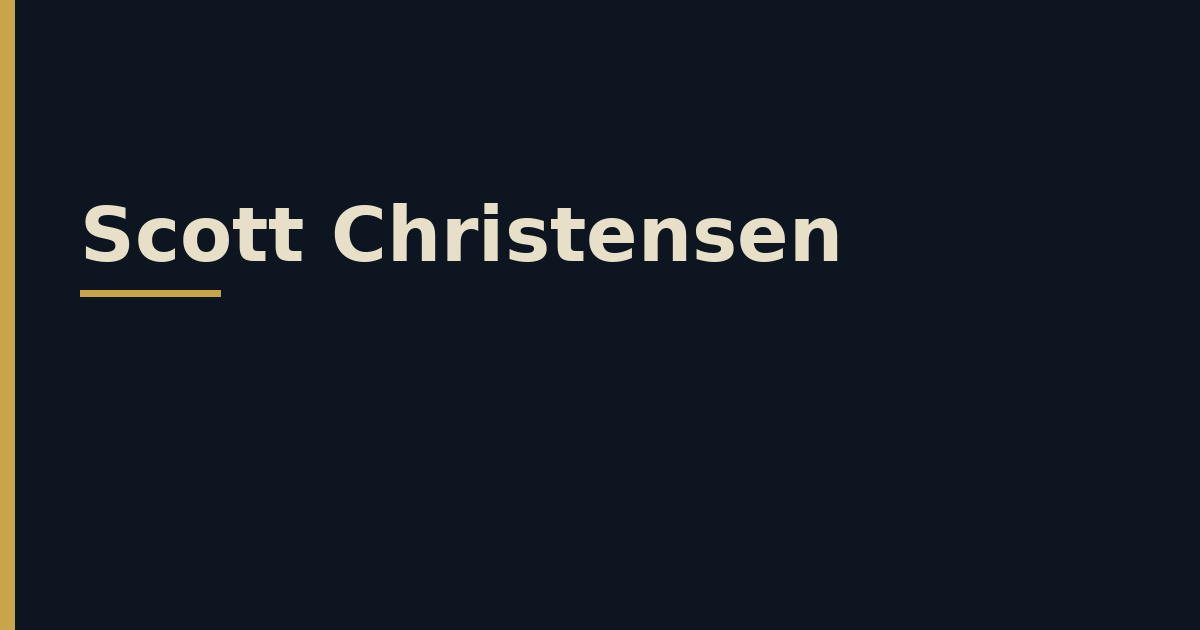
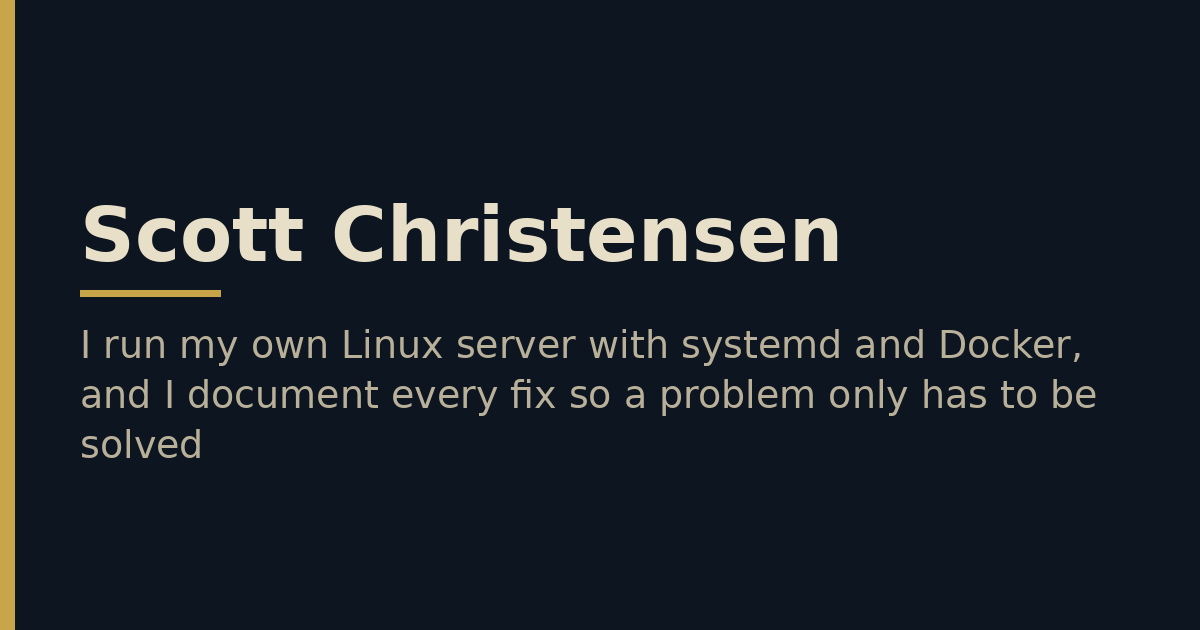
Settings changed: refresh links, previews and style
by: owner

Changed region(s): [[0.0617, 0.6032, 0.925, 0.6635], [0.0617, 0.5127, 0.8942, 0.573], [0.0617, 0.6937, 0.185, 0.7238]]

diff --git a/about.html b/about.html
@@ -13,20 +13,23 @@
 <meta property="og:type" content="website">
 <meta property="og:site_name" content="Scott Christensen — portfolio">
 <meta property="og:title" content="About / Résumé — Scott Christensen">
-<meta property="og:description" content="<span data-draft="d21">Scott Christensen runs a self-managed Linux Mint home server with Docker services, systemd and local AI models. He ran a study platform on a Linux server with systemd and automated test gates before every push, and kept a decisions log of each change and incident. He traced a live outage to a test build written into the production folder while the health check stayed green, restored service, and approved two guards against it. He has repaired and built computers since 2010 and is working toward CompTIA A+, planned for February 2027.</span> Scott Christensen — systems builder portfolio.">
-<meta property="og:image" content="assets/share.png">
+<meta property="og:description" content="&lt;span data-draft=">
+<meta property="og:image" content="https://scottchristensen.dev/assets/share.png">
 <meta property="og:image:width" content="1200">
 <meta property="og:image:height" content="630">
 <meta property="og:image:alt" content="Scott Christensen — portfolio — portfolio">
+<meta property="og:url" content="https://scottchristensen.dev/about.html">
+<link rel="canonical" href="https://scottchristensen.dev/about.html">
 <meta name="twitter:card" content="summary_large_image">
 <meta name="twitter:title" content="About / Résumé — Scott Christensen">
-<meta name="twitter:description" content="<span data-draft="d22">Scott Christensen builds and runs software on a self-managed Linux server, using systemd, Docker, git and automated test gates before every push. He has fixed computers since 2010, starting in a three-person repair shop in Fortuna, CA, and he writes down each fix so it only has to be solved once. On one project he traced a live outage to a test build written into the production folder while the health check stayed green, restored service, and approved two guards against it happening again. He is studying for the CompTIA A+ exam, planned for February 2027.</span> Scott Christensen — systems builder portfolio.">
-<meta name="twitter:image" content="assets/share.png">
+<meta name="twitter:description" content="&lt;span data-draft=">
+<meta name="twitter:image" content="https://scottchristensen.dev/assets/share.png">
 <!-- /hx:head -->
 </head>
 <body>
 <a class="skip" href="#main">Skip to content</a>
 <header class="nav"><nav aria-label="Main"><a href="index.html">Home</a><a href="projects.html">Projects</a><a href="about.html" aria-current="page">About / Résumé</a><a href="contact.html">Contact</a></nav>
+<!-- hx:hsocial --><span class="social" aria-label="Profiles"><a href="https://github.com/erasmus707bot-dev" rel="me noopener">GitHub</a></span><!-- /hx:hsocial -->
 <button type="button" class="theme" data-theme-toggle aria-label="Switch light or dark">🌓</button></header>
 <main id="main">
 <h1>About / Résumé</h1>
@@ -58,6 +61,7 @@
 <p><a class="btn" href="assets/resume.pdf" download>Download résumé (PDF)</a></p></section>
 <!-- /block -->
 </main>
-<footer><p>© Scott Christensen · <a href="mailto:scott@scottchristensen.dev">scott@scottchristensen.dev</a></p></footer>
+<footer><p>© Scott Christensen · <a href="mailto:scott@scottchristensen.dev">scott@scottchristensen.dev</a></p><!-- hx:fsocial --><p><span class="social" aria-label="Profiles"><a href="https://github.com/erasmus707bot-dev" rel="me noopener">GitHub</a></span></p><!-- /hx:fsocial -->
+</footer>
 </body>
 </html>

diff --git a/projects.html b/projects.html
@@ -13,20 +13,23 @@
 <meta property="og:type" content="website">
 <meta property="og:site_name" content="Scott Christensen — portfolio">
 <meta property="og:title" content="Projects — Scott Christensen">
-<meta property="og:description" content="<span data-draft="d37">Scott Christensen&#x27;s projects run on a self-managed Linux Mint server using systemd, Docker and git, including a home server and a self-hosted platform of AI-assisted tools. One write-up covers a live outage traced to a test build in the production folder, closed out with a separate test-build folder and a health check that verifies the build.</span> Scott Christensen — systems builder portfolio.">
-<meta property="og:image" content="assets/share.png">
+<meta property="og:description" content="&lt;span data-draft=">
+<meta property="og:image" content="https://scottchristensen.dev/assets/share.png">
 <meta property="og:image:width" content="1200">
 <meta property="og:image:height" content="630">
 <meta property="og:image:alt" content="Scott Christensen — portfolio — portfolio">
+<meta property="og:url" content="https://scottchristensen.dev/projects.html">
+<link rel="canonical" href="https://scottchristensen.dev/projects.html">
 <meta name="twitter:card" content="summary_large_image">
 <meta name="twitter:title" content="Projects — Scott Christensen">
-<meta name="twitter:description" content="<span data-draft="d38">I run my own Linux Mint home server home server with Docker services, systemd, local AI models and document archiving. I also ran a study platform on a self-managed Linux server with systemd and automated test gates before every push, and I kept a decisions log of each change and incident. On one live outage, I traced the cause to a test build written into the production folder while the health check stayed green, restored service, and approved two guards against it. I started repairing and building computers in 2010, and I&#x27;m studying for CompTIA A+, with the exam planned for February 2027.</span> Scott Christensen — systems builder portfolio.">
-<meta name="twitter:image" content="assets/share.png">
+<meta name="twitter:description" content="&lt;span data-draft=">
+<meta name="twitter:image" content="https://scottchristensen.dev/assets/share.png">
 <!-- /hx:head -->
 </head>
 <body>
 <a class="skip" href="#main">Skip to content</a>
 <header class="nav"><nav aria-label="Main"><a href="index.html">Home</a><a href="projects.html" aria-current="page">Projects</a><a href="about.html">About / Résumé</a><a href="contact.html">Contact</a></nav>
+<!-- hx:hsocial --><span class="social" aria-label="Profiles"><a href="https://github.com/erasmus707bot-dev" rel="me noopener">GitHub</a></span><!-- /hx:hsocial -->
 <button type="button" class="theme" data-theme-toggle aria-label="Switch light or dark">🌓</button></header>
 <main id="main">
 <h1>Projects</h1>
@@ -56,6 +59,7 @@
 </div></section>
 <!-- /block -->
 </main>
-<footer><p>© Scott Christensen · <a href="mailto:scott@scottchristensen.dev">scott@scottchristensen.dev</a></p></footer>
+<footer><p>© Scott Christensen · <a href="mailto:scott@scottchristensen.dev">scott@scottchristensen.dev</a></p><!-- hx:fsocial --><p><span class="social" aria-label="Profiles"><a href="https://github.com/erasmus707bot-dev" rel="me noopener">GitHub</a></span></p><!-- /hx:fsocial -->
+</footer>
 </body>
 </html>

diff --git a/contact.html b/contact.html
@@ -13,20 +13,23 @@
 <meta property="og:type" content="website">
 <meta property="og:site_name" content="Scott Christensen — portfolio">
 <meta property="og:title" content="Contact — Scott Christensen">
-<meta property="og:description" content="<span data-draft="d34">Scott Christensen is a systems builder who runs his own apps on a self-managed Linux server using systemd, Docker and git. He has fixed computers since 2010 and is working toward the CompTIA A+ exam planned for February 2027. He documents every fix with written change logs and incident notes.</span> Scott Christensen — systems builder portfolio.">
-<meta property="og:image" content="assets/share.png">
+<meta property="og:description" content="&lt;span data-draft=">
+<meta property="og:image" content="https://scottchristensen.dev/assets/share.png">
 <meta property="og:image:width" content="1200">
 <meta property="og:image:height" content="630">
 <meta property="og:image:alt" content="Scott Christensen — portfolio — portfolio">
+<meta property="og:url" content="https://scottchristensen.dev/contact.html">
+<link rel="canonical" href="https://scottchristensen.dev/contact.html">
 <meta name="twitter:card" content="summary_large_image">
 <meta name="twitter:title" content="Contact — Scott Christensen">
-<meta name="twitter:description" content="<span data-draft="d35">Scott Christensen is an IT support technician who runs his own apps on a self-managed Linux Mint server using systemd and Docker. He has done hands-on computer repair since 2010 and plans to take the CompTIA A+ exam in February 2027. To talk about a junior Linux admin role, email schristensen456@gmail.com.</span> Scott Christensen — systems builder portfolio.">
-<meta name="twitter:image" content="assets/share.png">
+<meta name="twitter:description" content="&lt;span data-draft=">
+<meta name="twitter:image" content="https://scottchristensen.dev/assets/share.png">
 <!-- /hx:head -->
 </head>
 <body>
 <a class="skip" href="#main">Skip to content</a>
 <header class="nav"><nav aria-label="Main"><a href="index.html">Home</a><a href="projects.html">Projects</a><a href="about.html">About / Résumé</a><a href="contact.html" aria-current="page">Contact</a></nav>
+<!-- hx:hsocial --><span class="social" aria-label="Profiles"><a href="https://github.com/erasmus707bot-dev" rel="me noopener">GitHub</a></span><!-- /hx:hsocial -->
 <button type="button" class="theme" data-theme-toggle aria-label="Switch light or dark">🌓</button></header>
 <main id="main">
 <h1>Contact</h1>
@@ -36,6 +39,7 @@
 <p><a class="btn" href="mailto:scott@scottchristensen.dev">scott@scottchristensen.dev</a></p></section>
 <!-- /block -->
 </main>
-<footer><p>© Scott Christensen · <a href="mailto:scott@scottchristensen.dev">scott@scottchristensen.dev</a></p></footer>
+<footer><p>© Scott Christensen · <a href="mailto:scott@scottchristensen.dev">scott@scottchristensen.dev</a></p><!-- hx:fsocial --><p><span class="social" aria-label="Profiles"><a href="https://github.com/erasmus707bot-dev" rel="me noopener">GitHub</a></span></p><!-- /hx:fsocial -->
+</footer>
 </body>
 </html>

diff --git a/index.html b/index.html
@@ -13,20 +13,23 @@
 <meta property="og:type" content="website">
 <meta property="og:site_name" content="Scott Christensen — portfolio">
 <meta property="og:title" content="Home — Scott Christensen">
-<meta property="og:description" content="<span data-draft="d2">Scott Christensen is an IT support technician with hands-on computer repair experience since 2010 and a self-managed Linux server running systemd and Docker services. His portfolio shows systems he builds, tests and documents, with a CompTIA A+ exam planned for February 2027.</span> Scott Christensen — systems builder portfolio.">
-<meta property="og:image" content="assets/share.png">
+<meta property="og:description" content="&lt;span data-draft=">
+<meta property="og:image" content="https://scottchristensen.dev/assets/share.png">
 <meta property="og:image:width" content="1200">
 <meta property="og:image:height" content="630">
 <meta property="og:image:alt" content="Scott Christensen — portfolio — portfolio">
+<meta property="og:url" content="https://scottchristensen.dev/">
+<link rel="canonical" href="https://scottchristensen.dev/">
 <meta name="twitter:card" content="summary_large_image">
 <meta name="twitter:title" content="Home — Scott Christensen">
-<meta name="twitter:description" content="<span data-draft="d3">Scott Christensen is an IT support technician who has run software on a self-managed Linux server, using systemd, Docker and git. He ran his study platform with automated test gates before every push and a decisions log that recorded each change and incident. He has done computer repair since 2010, and his CompTIA A+ exam is planned for February 2027.</span> Scott Christensen — systems builder portfolio.">
-<meta name="twitter:image" content="assets/share.png">
+<meta name="twitter:description" content="&lt;span data-draft=">
+<meta name="twitter:image" content="https://scottchristensen.dev/assets/share.png">
 <!-- /hx:head -->
 </head>
 <body>
 <a class="skip" href="#main">Skip to content</a>
 <header class="nav"><nav aria-label="Main"><a href="index.html" aria-current="page">Home</a><a href="projects.html">Projects</a><a href="about.html">About / Résumé</a><a href="contact.html">Contact</a></nav>
+<!-- hx:hsocial --><span class="social" aria-label="Profiles"><a href="https://github.com/erasmus707bot-dev" rel="me noopener">GitHub</a></span><!-- /hx:hsocial -->
 <button type="button" class="theme" data-theme-toggle aria-label="Switch light or dark">🌓</button></header>
 <main id="main">
 <!-- block:hero -->
@@ -67,6 +70,7 @@
 <p><a class="btn" href="mailto:scott@scottchristensen.dev">scott@scottchristensen.dev</a></p></section>
 <!-- /block -->
 </main>
-<footer><p>© Scott Christensen · <a href="mailto:scott@scottchristensen.dev">scott@scottchristensen.dev</a></p></footer>
+<footer><p>© Scott Christensen · <a href="mailto:scott@scottchristensen.dev">scott@scottchristensen.dev</a></p><!-- hx:fsocial --><p><span class="social" aria-label="Profiles"><a href="https://github.com/erasmus707bot-dev" rel="me noopener">GitHub</a></span></p><!-- /hx:fsocial -->
+</footer>
 </body>
 </html>
